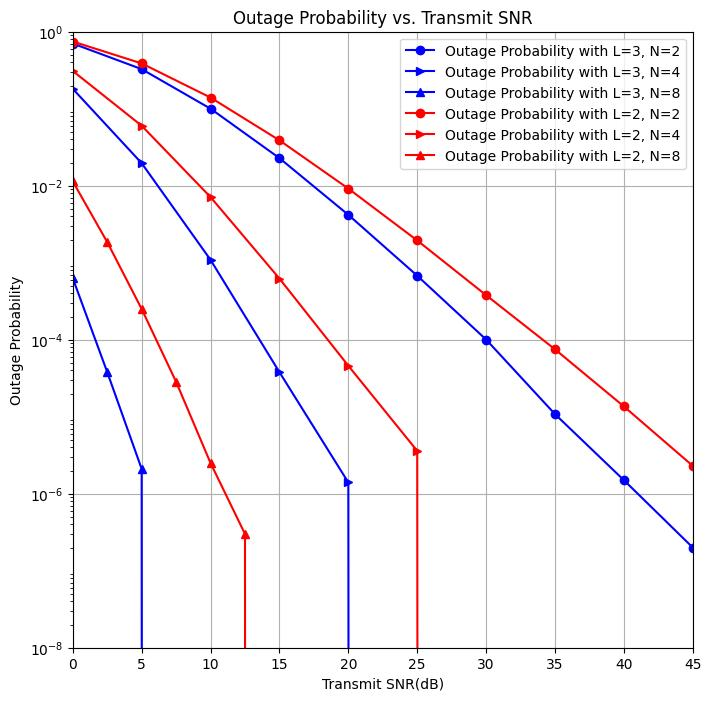
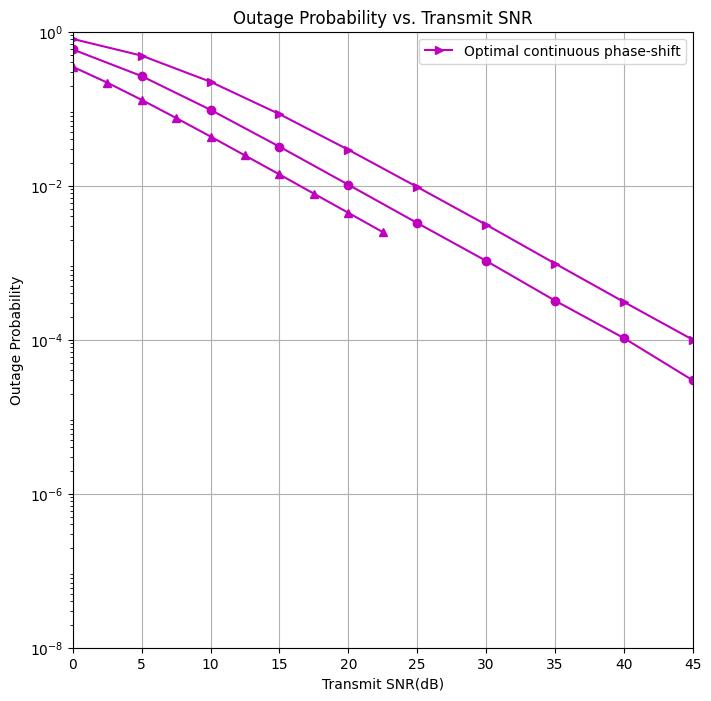
2024.08.7(WED)_v1

diff --git a/reproduce.py b/reproduce.py
@@ -3,6 +3,16 @@ import matplotlib.pyplot as plt
 import os
 
 
+# Add slopes N and (N+1)/2
+def plot_slope(N, x_range, y_intercept):
+    x = np.array(x_range)
+    y_N = 10 ** ((-x * N) / 10 + y_intercept)
+    y_half_N = 10 ** (-x * (N + 1) / 2 / 10)
+
+    plt.plot(x, y_N, linestyle='--', color="m", label=f'Slope = {N}')
+    # plt.plot(x, y_half_N, linestyle=':', color=color, label=f'Slope = {(N + 1) / 2}')
+
+
 def outage_prob_plot(fig_num):
     if fig_num == 1:
         fig_name = f"The outage probability versus the SNR_5e7"
@@ -18,13 +28,18 @@ def outage_prob_plot(fig_num):
         plt.figure(figsize=(8, 8))
         plt.title('Outage Probability vs. Transmit SNR')
 
-        plt.plot(10 * np.log10(P_out_values_3_2[0]), P_out_values_3_2[1], 'rs-', label=f'Outage Probability with L=3, N=2')
+        plt.plot(10 * np.log10(P_out_values_3_2[0]), P_out_values_3_2[1], 'rs-', label=f'Outage Probability with L=3')
         plt.plot(10 * np.log10(P_out_values_3_4[0]), P_out_values_3_4[1], 'rs-')
         plt.plot(10 * np.log10(P_out_values_3_8[0]), P_out_values_3_8[1], 'rs-')
 
-        plt.plot(10 * np.log10(P_out_values_2_2[0]), P_out_values_2_2[1], 'bo-', label=f'Outage Probability with L=2, N=2')
+        plt.plot(10 * np.log10(P_out_values_2_2[0]), P_out_values_2_2[1], 'bo-', label=f'Outage Probability with L=2')
         plt.plot(10 * np.log10(P_out_values_2_4[0]), P_out_values_2_4[1], 'bo-')
         plt.plot(10 * np.log10(P_out_values_2_8[0]), P_out_values_2_8[1], 'bo-')
+
+
+        plot_slope(2, np.linspace(37.5, 45, 1000), 2)
+        plot_slope(4, np.linspace(17.5, 45, 1000), 1.5)
+        plot_slope(8, np.linspace(5.5, 45, 100), -2)
 
         plt.yscale('log', base=10)
         plt.yticks([10**-8, 10**-6, 10**-4, 10**-2, 10**0])
@@ -47,19 +62,19 @@ def outage_prob_plot(fig_num):
         plt.savefig(f"{fig_dir}", bbox_inches='tight')
         plt.show()
     elif fig_num == 2:
-        fig_name = "The outage probability versus the SNR_5e7"
+        fig_name = "The outage probability versus the SNR_1e7"
 
-        P_out_values_2_2 = np.load(f"./Curves/SC_opt_outage_prob_2.npy")
-        P_out_values_2_4 = np.load(f"./Curves/SC_opt_outage_prob_4.npy")
-        P_out_values_2_8 = np.load(f"./Curves/SC_opt_outage_prob_8.npy")
+        opt_P_out_values_2 = np.load(f"./Curves/SC_opt_outage_prob_2.npy")
+        opt_P_out_values_4 = np.load(f"./Curves/SC_opt_outage_prob_4.npy")
+        opt_P_out_values_8 = np.load(f"./Curves/SC_opt_outage_prob_8.npy")
 
         plt.figure(figsize=(8, 8))
         plt.title('Outage Probability vs. Transmit SNR')
 
-        plt.plot(10 * np.log10(P_out_values_3_2[0]), P_out_values_3_2[1], 'm>-',
+        plt.plot(10 * np.log10(opt_P_out_values_2[0]), opt_P_out_values_2[1], 'm>-',
                  label=f'Optimal continuous phase-shift')
-        plt.plot(10 * np.log10(P_out_values_3_4[0]), P_out_values_3_4[1], 'm>-')
-        plt.plot(10 * np.log10(P_out_values_3_8[0]), P_out_values_3_8[1], 'm>-')
+        plt.plot(10 * np.log10(opt_P_out_values_4[0]), opt_P_out_values_4[1], 'mo-')
+        plt.plot(10 * np.log10(opt_P_out_values_8[0]), opt_P_out_values_8[1], 'm^-')
 
 
         plt.yscale('log', base=10)

diff --git a/SystemModel.py b/SystemModel.py
@@ -2,6 +2,8 @@ import numpy as np
 from scipy.special import kn
 from tqdm import tqdm, trange
 
+from scipy.linalg import svd
+
 
 def init_system(N, Omega_S, Omega_I, delta):
     # Channel vectors : follwing complex gaussian distribution with 0 mean, Omega variance
@@ -60,7 +62,7 @@ def cdf_gn_squared(x):
 def outage_probability(L, N, P, delta, eta, Omega_S, Omega_I, threshold, rho):
     prob_count = 0
 
-    num_simulations = int(5e+7)
+    num_simulations = int(1e+5)
     pbar = tqdm(range(num_simulations))
     for _ in pbar:
         pbar.set_description(f"Outage simulation when L={L} N={N}")
@@ -80,28 +82,33 @@ def outage_probability(L, N, P, delta, eta, Omega_S, Omega_I, threshold, rho):
     return P_G_N
 
 
-def calc_opt_sc_phase(h_SI, h_ID):
-    # 각 채널 벡터의 argument
-    theta_1 = np.angle(h_SI)
-    theta_2 = np.angle(h_ID)
+def calc_opt_sc_phase(h_SI, h_ID, N):
 
-    # optimal phase
-    SC_phi_opt = - (theta_1 + theta_2)
-    SC_phi_opt = np.diag(np.exp(1j * SC_phi_opt))
+    h_SI_ID = h_SI * h_ID
+    #opt_phase = -np.angle(h_SI_ID)
 
-    return SC_phi_opt
+    opt_phase = np.random.uniform(-np.pi/100, np.pi/100, N)
+
+    # Adjust the phases to be within the range [0, 2π)
+    #opt_phi = np.mod(opt_phi, 2 * np.pi)
+
+    # opt_phi = np.abs(opt_phi)
+
+    Phi = np.diag(np.exp(1j * opt_phase))
+
+    return Phi
 
 
 def opt_sc_outage_probability(N, P, delta, eta, Omega_S, Omega_I, threshold, rho):
     prob_count = 0
 
-    num_simulations = int(5e+7)
+    num_simulations = int(1e+5)
     pbar = tqdm(range(num_simulations))
     for _ in pbar:
         pbar.set_description(f"Outage simulation when N={N}")
         # 변수 초기화
         h_SI, h_ID, _, _ = init_system(N, Omega_S, Omega_I, delta)
-        Phi = calc_opt_sc_phase(h_SI, h_ID)
+        Phi = calc_opt_sc_phase(h_SI, h_ID, N)
         g_n, _ = SNR_calc(P, delta, eta, h_SI, Phi, h_ID, Omega_S, Omega_I)
 
         G_N = np.sum(g_n)
@@ -115,17 +122,20 @@ def opt_sc_outage_probability(N, P, delta, eta, Omega_S, Omega_I, threshold, rho
     return P_G_N
 
 
+def calc_opt_fc_phase(h_SI, h_ID):
+    u_SI = h_SI / np.linalg.norm(h_SI)
+    u_ID = h_ID / np.linalg.norm(h_ID)
 
-def generate_opt_BD_phase(h1, h2):
-    S = h2.conj().T @ h1.conj().T + h1 @ h2
+    A = np.outer(u_SI, u_ID.conjugate().T) + np.outer(u_SI, u_ID.conjugate().T).T
 
     # Takagi factorization
-    U, Sigma, Vh = svd(S)
-    V1 = U
-    V2 = np.diag(Sigma) @ Vh
+    a = svd(A)
 
-    V = V1 @ V2
-    FC_phi_opt = V @ V.T
+    Q = a[0]
+    Sigma = a[1]
+    QT = a[2].T
+
+    FC_phi_opt = Q @ QT
 
     return FC_phi_opt
 

diff --git a/main.py b/main.py
@@ -22,7 +22,32 @@ epsilon_0 = (2 ** R0 - 1) / (eta ** 2 * Omega_S * Omega_I)
 
 # opt_sc_outage_prob_simulation(Omega_S, Omega_I, P, eta, delta, epsilon_0)
 
-fig_num = 1
-outage_prob_plot(fig_num)
+# fig_num = 2
+# outage_prob_plot(fig_num)
 
-ss
+
+
+rho_values = np.logspace(0, 4.5, 10)
+
+opt_sc_P_out_values_2 = np.array(
+    [opt_sc_outage_probability(4, P, delta, eta, Omega_S, Omega_I, epsilon_0, rho) for rho in rho_values])
+
+plt.figure(figsize=(8, 8))
+plt.title('Outage Probability vs. Transmit SNR')
+
+P_out_values_3_2 = np.array(
+    [outage_probability(3, 4, P, delta, eta, Omega_S, Omega_I, epsilon_0, rho) for rho in rho_values])
+
+plt.plot(10 * np.log10(rho_values), opt_sc_P_out_values_2, 'rs-', label=f'Optimal Outage Probability')
+plt.plot(10 * np.log10(rho_values), P_out_values_3_2, 'bo-', label=f'Outage Probability with L=3')
+
+plt.yscale('log', base=10)
+plt.yticks([10 ** -8, 10 ** -6, 10 ** -4, 10 ** -2, 10 ** 0])
+plt.xlim(0, 45)
+plt.ylim(10 ** -8, 10 ** 0)
+plt.xlabel('Transmit SNR(dB)')
+plt.ylabel('Outage Probability')
+plt.legend()
+plt.grid(True)
+plt.show()
+

diff --git a/simulations.py b/simulations.py
@@ -4,7 +4,7 @@ import os
 from SystemModel import *
 
 
-def outage_prob_simulation(Omega_S, Omega_I, P, eta, delta, epsilon_0, num_simulations):
+def outage_prob_simulation(Omega_S, Omega_I, P, eta, delta, epsilon_0):
     # rho values to infinity
     rho_values = np.logspace(0, 4.5, 10)
     narrow_rho_values = np.logspace(0, 2.25, 10)
@@ -13,7 +13,7 @@ def outage_prob_simulation(Omega_S, Omega_I, P, eta, delta, epsilon_0, num_simul
     L = 3
 
     P_out_values_3_2 = np.array(
-        [outage_probability(L, 2, P, delta, eta, Omega_S, Omega_I, epsilon_0, rho, num_simulations) for rho in rho_values])
+        [outage_probability(L, 2, P, delta, eta, Omega_S, Omega_I, epsilon_0, rho) for rho in rho_values])
     P_out_values_3_4 = np.array(
         [outage_probability(L, 4, P, delta, eta, Omega_S, Omega_I, epsilon_0, rho) for rho in rho_values])
     # N = 8 이상 일 때는 outage  prob이 15dB 근처에서 0에 수렴함. -> rho values 세분화
